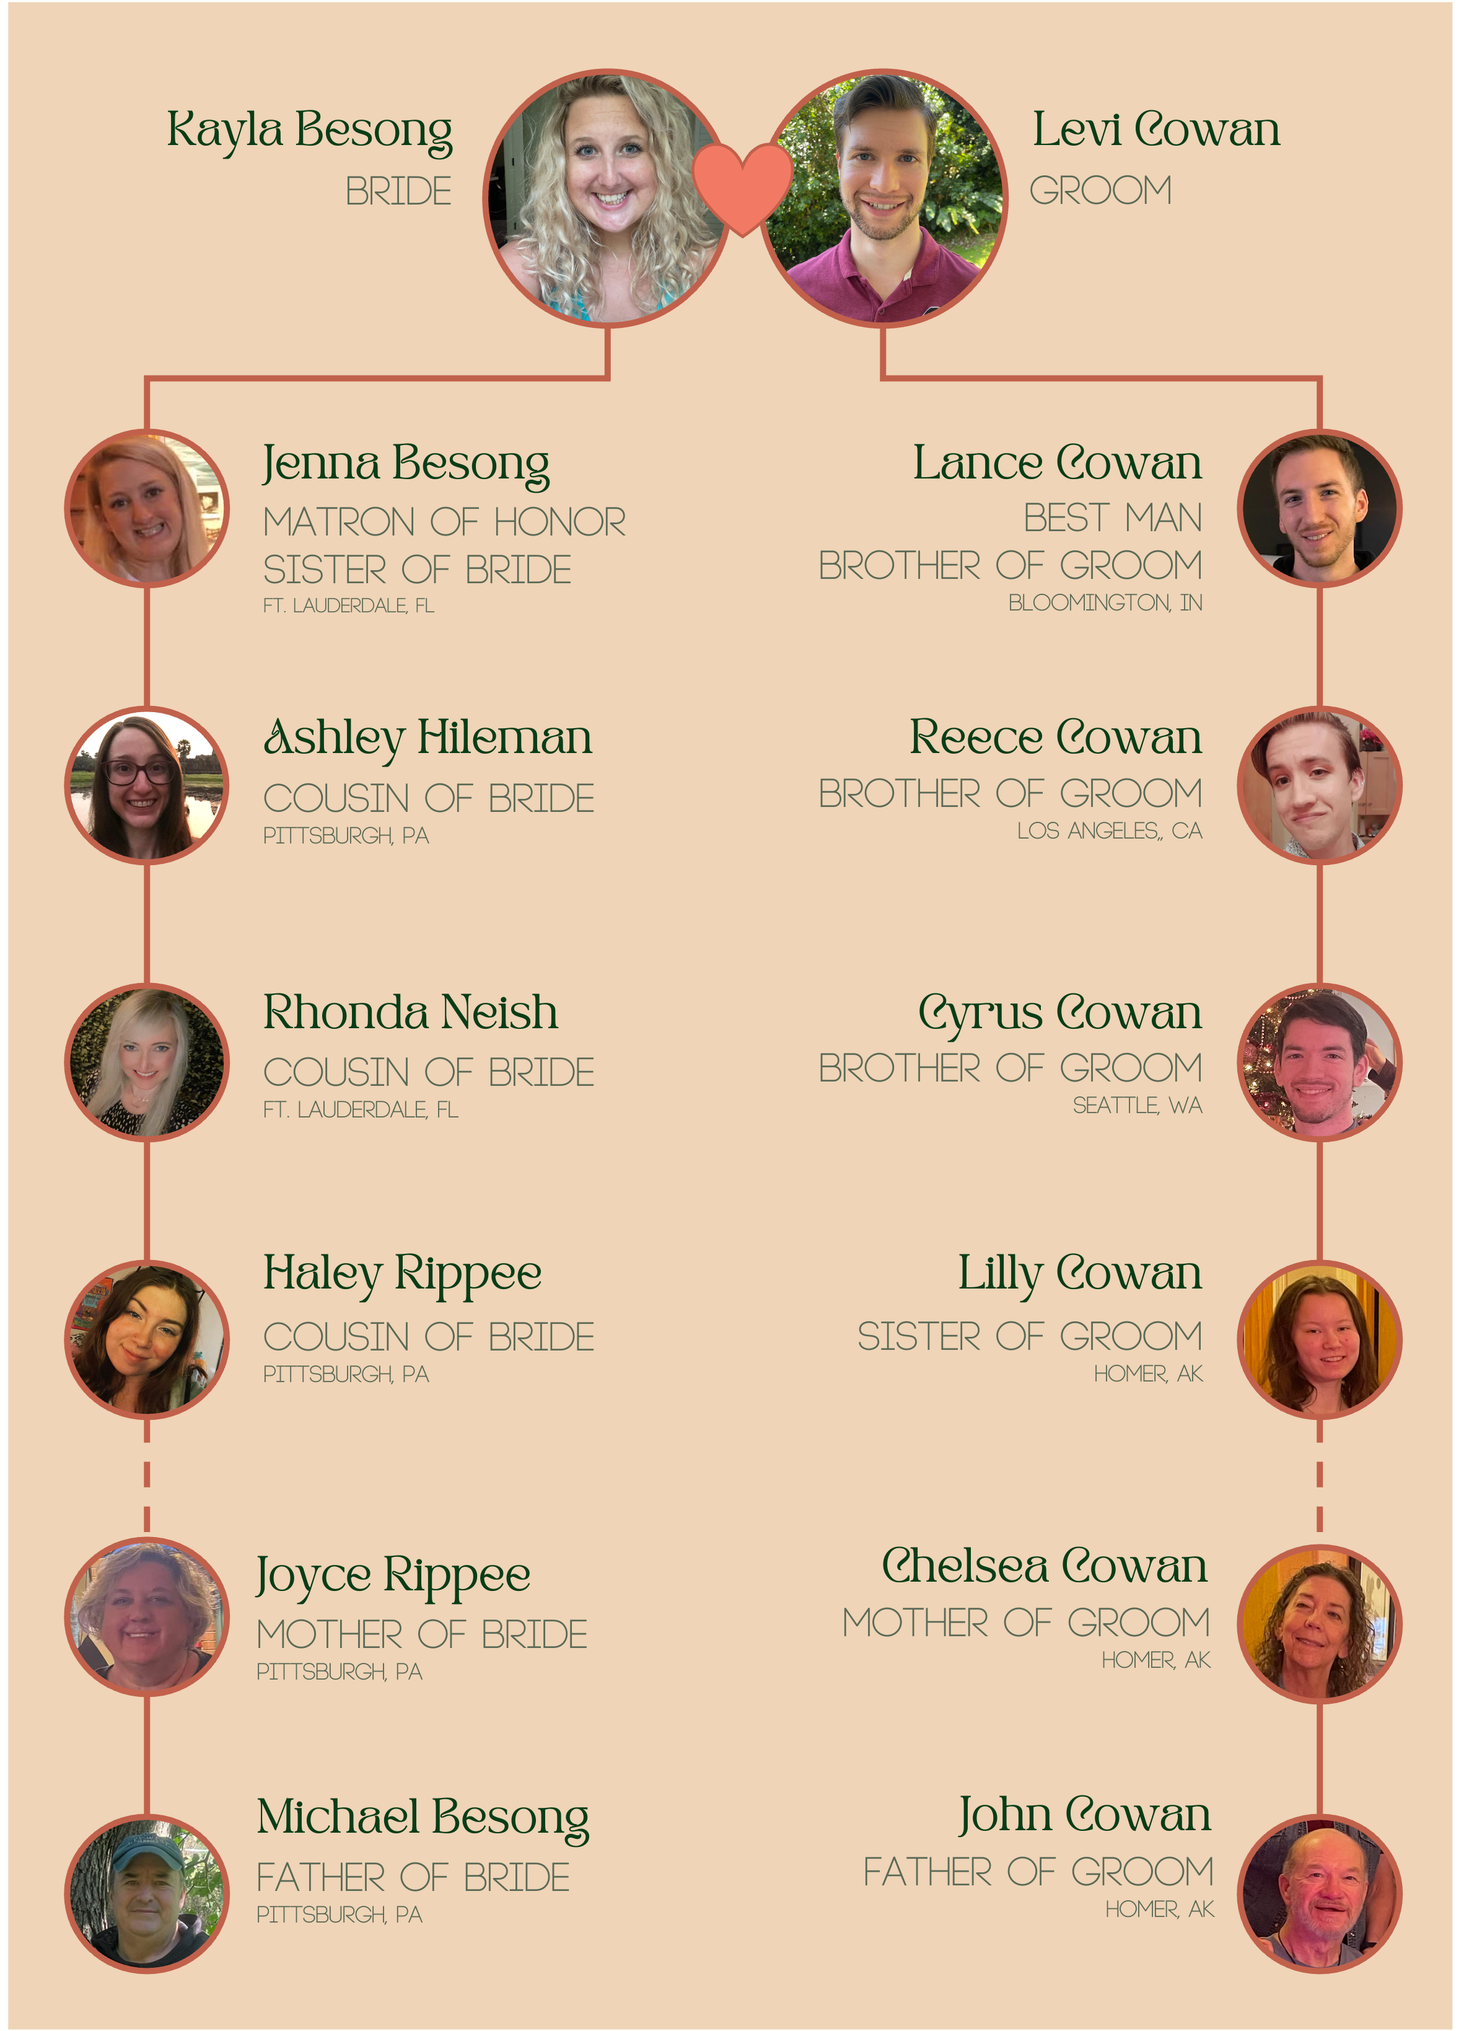
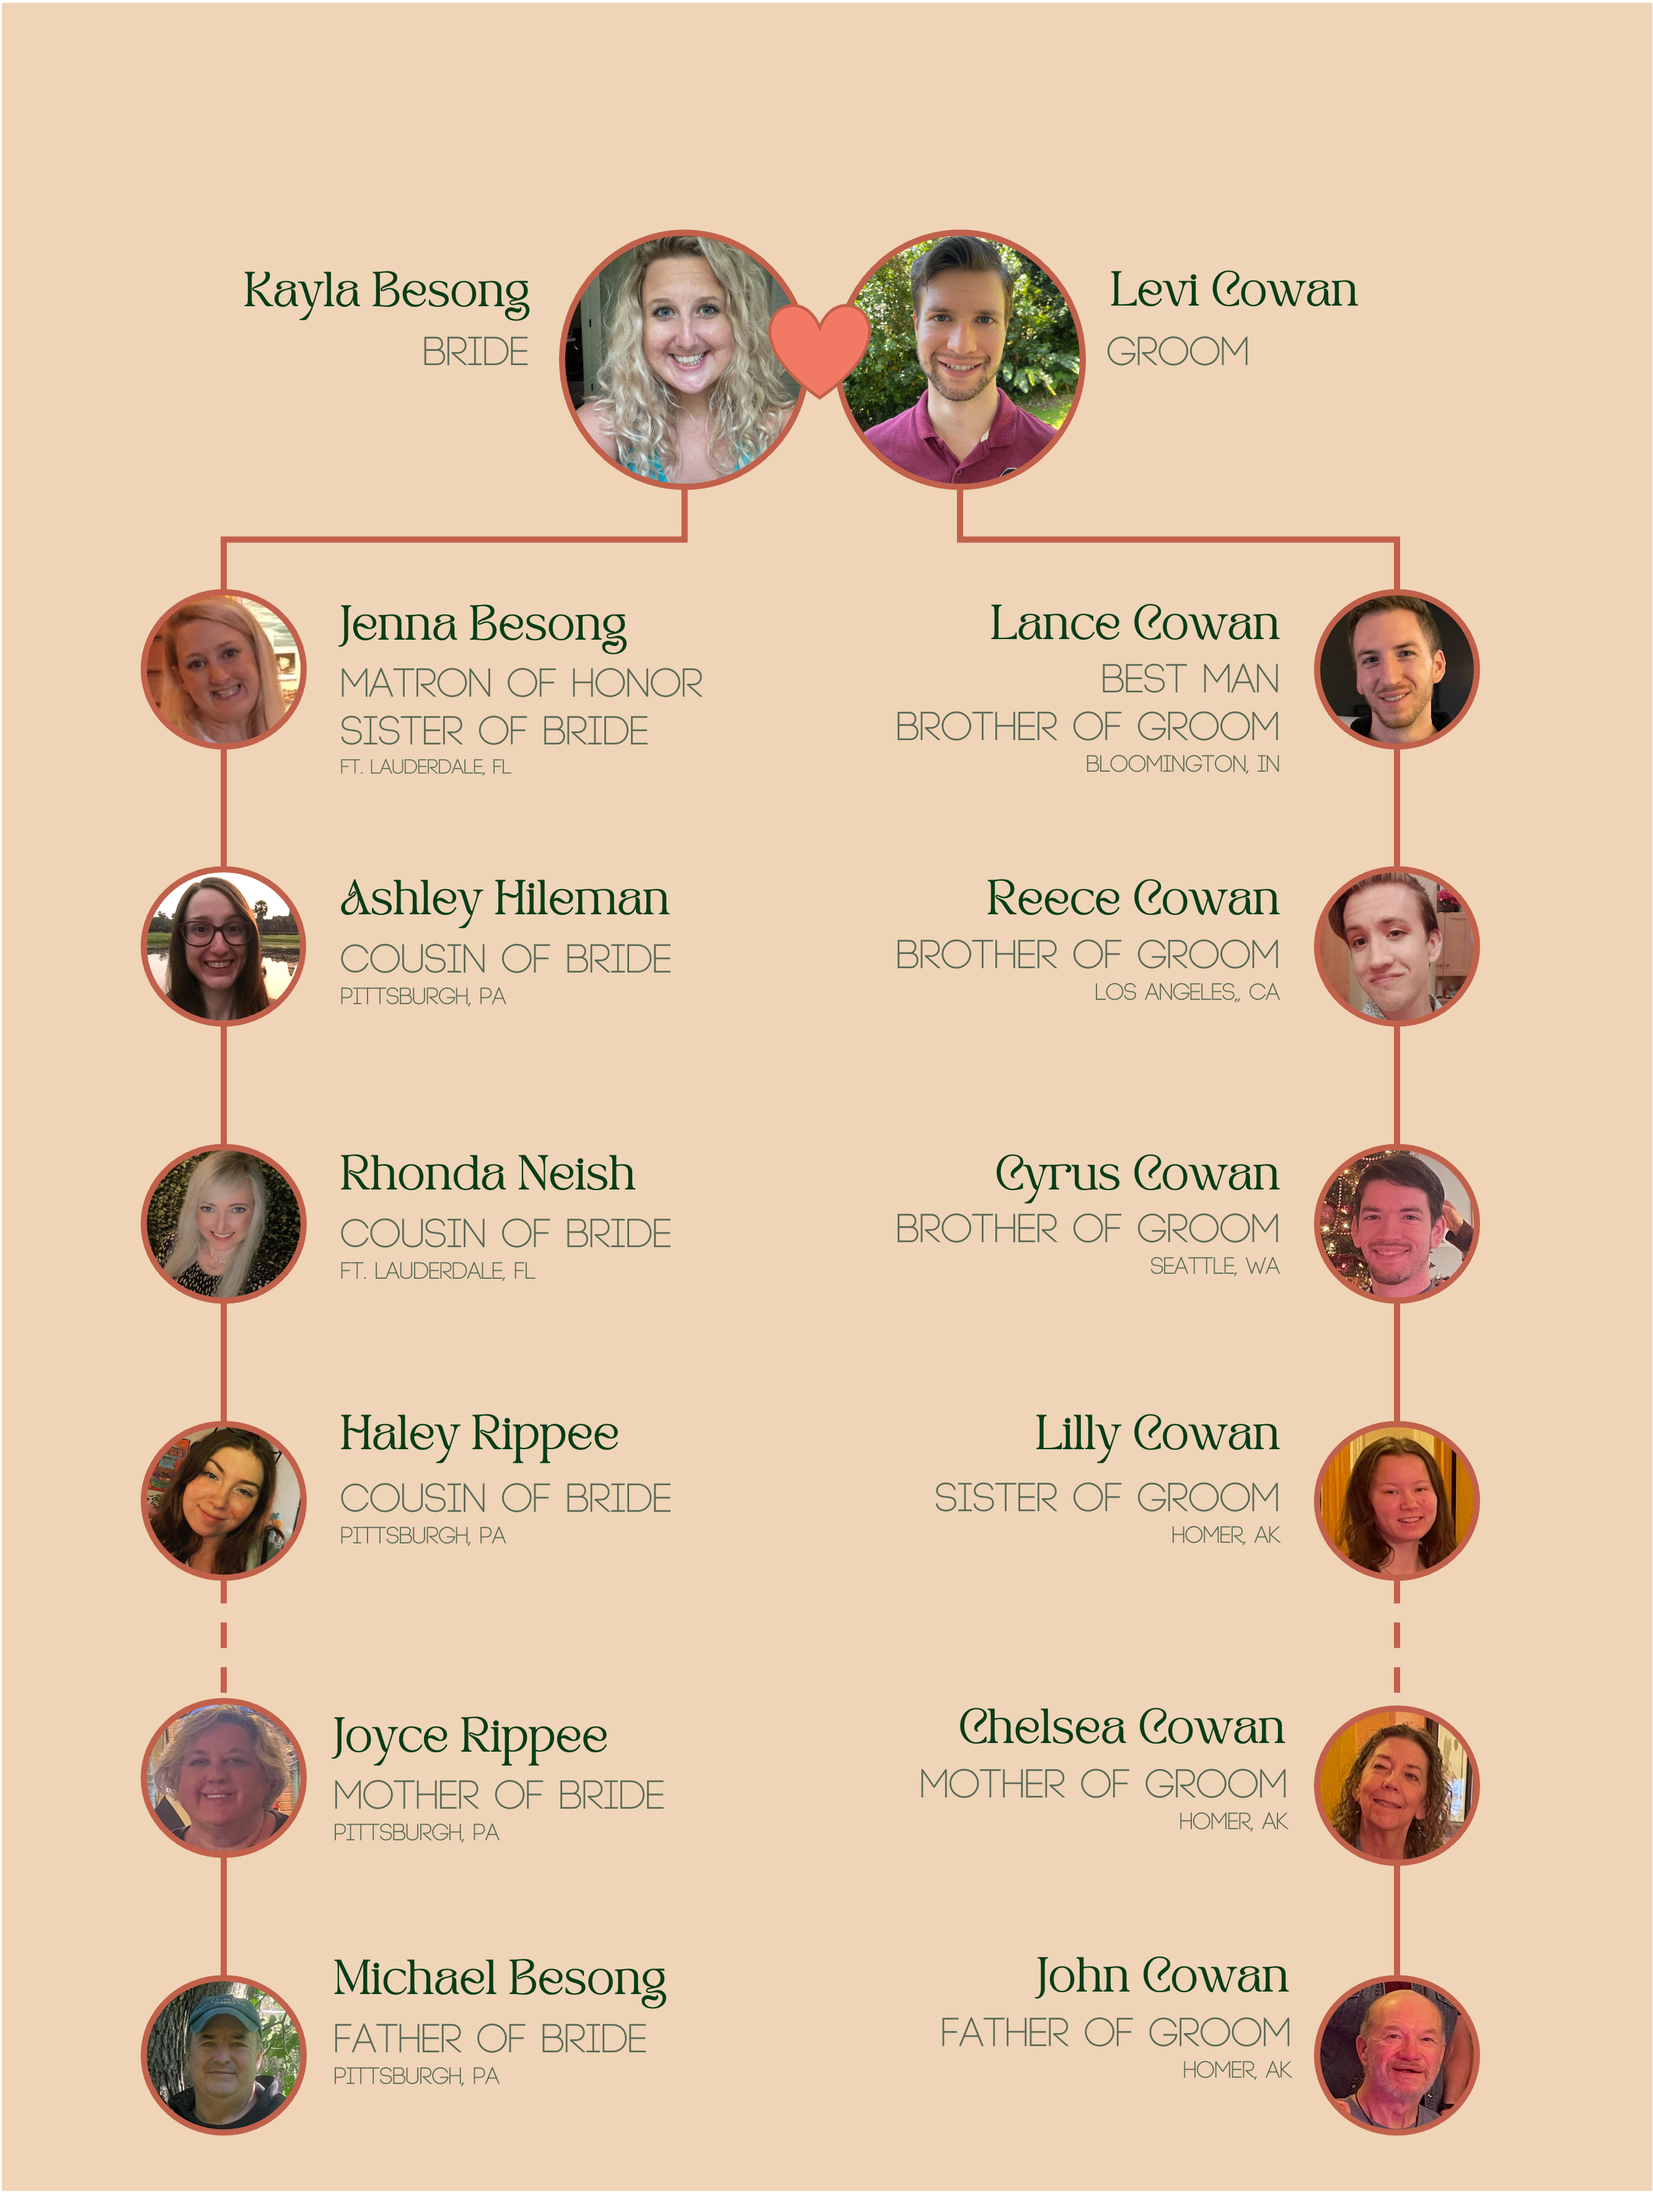
wp1

Changed region(s): [[0.0, 0.0, 1.0, 1.0], [0.7115, 0.0623, 0.8662, 0.0934], [0.5569, 0.3113, 0.6187, 0.3424]]

diff --git a/docs/wedding_party.html b/docs/wedding_party.html
@@ -6,18 +6,18 @@
 -->
 <html>
 	<head>
-		<title>No Sidebar - Twenty by HTML5 UP</title>
+		<title>Levi+Kayla</title>
 		<meta charset="utf-8" />
 		<meta name="viewport" content="width=device-width, initial-scale=1, user-scalable=no" />
 		<link rel="stylesheet" href="assets/css/main.css" />
 		<noscript><link rel="stylesheet" href="assets/css/noscript.css" /></noscript>
 	</head>
-	<body class="no-sidebar is-preload">
+	<body class="index is-preload">
 		<div id="page-wrapper">
 
 			<!-- Header -->
-				<header id="header">
-					<h1 id="logo"><a href="index.html">Twenty <span>by HTML5 UP</span></a></h1>
+				<header id="header" class="alt">
+					<h1 id="logo"><a href="index.html">Levi<span>+ Kayla</span></a></h1>
 					<nav id="nav">
 						<ul>
 							<li class="current"><a href="index.html">Welcome</a></li>
@@ -26,7 +26,7 @@
 								<ul>
 									<li><a href="left-sidebar.html">Left Sidebar</a></li>
 									<li><a href="right-sidebar.html">Right Sidebar</a></li>
-									<li><a href="no-sidebar.html">No Sidebar</a></li>
+									<li><a href="wedding_party.html">Meet the Wedding Party</a></li>
 									<li><a href="contact.html">Contact</a></li>
 									<li class="submenu">
 										<a href="#">Submenu</a>
@@ -40,7 +40,7 @@
 									</li>
 								</ul>
 							</li>
-							<li><a href="#" class="button primary">Sign Up</a></li>
+							<li><a href="https://registry.theknot.com/kayla-besong-levi-cowan-march-2023-ak/50892556" class="button primary" target="_blank">Registry</a></li>
 						</ul>
 					</nav>
 				</header>

diff --git a/docs/index.html b/docs/index.html
@@ -26,7 +26,7 @@
 								<ul>
 									<li><a href="left-sidebar.html">Left Sidebar</a></li>
 									<li><a href="right-sidebar.html">Right Sidebar</a></li>
-									<li><a href="no-sidebar.html">No Sidebar</a></li>
+									<li><a href="wedding_party.html">Meet the Wedding Party</a></li>
 									<li><a href="contact.html">Contact</a></li>
 									<li class="submenu">
 										<a href="#">Submenu</a>
@@ -201,7 +201,7 @@
 								<div class="col-6 col-12-narrower">
 
 									<section>
-										<a href="#" class="image featured"><img src="images/pic01.jpg" alt="" /></a>
+										<a href="wedding_party.html" class="image featured"><img src="images/wedding_party.png" alt="" /></a>
 										<header>
 											<h3>Meet the Wedding Party</h3>
 										</header>
